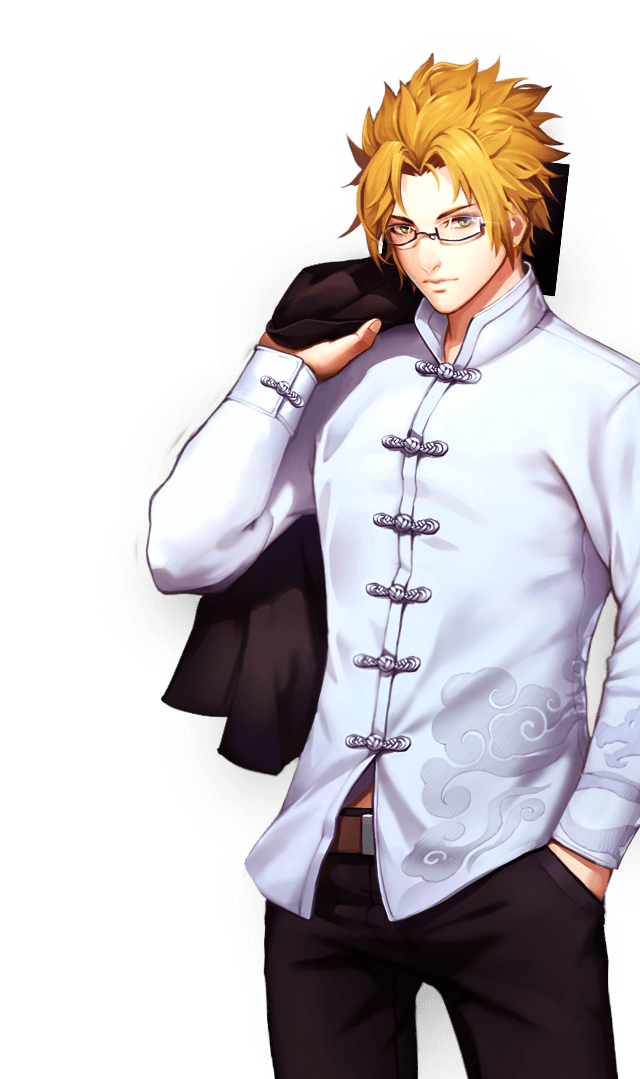
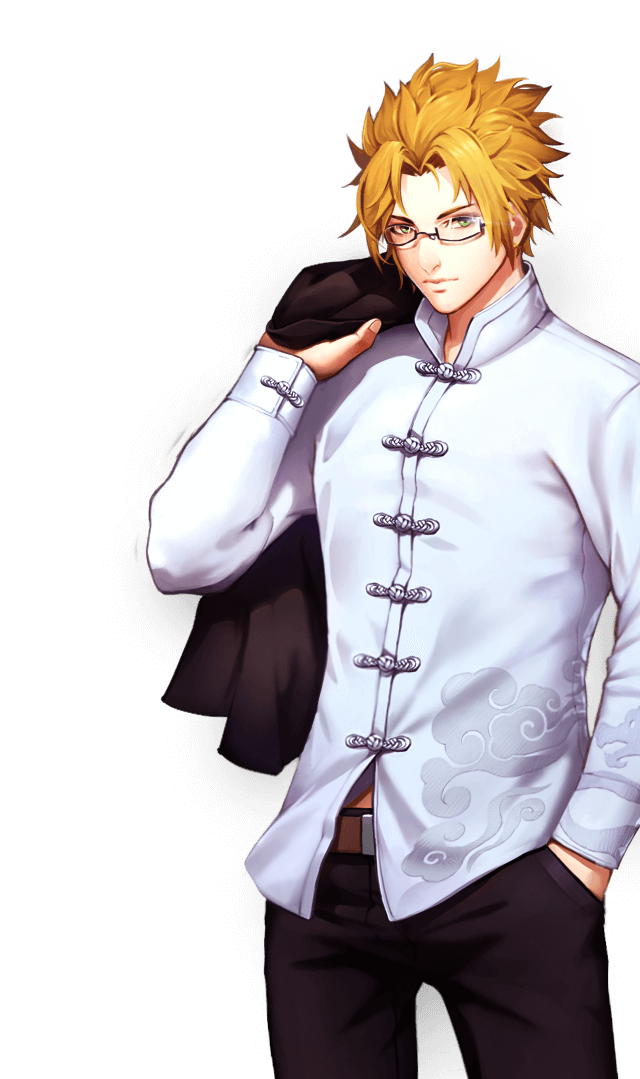
页面及图片调整

Changed region(s): [[0.8125, 0.1529, 0.9062, 0.2753], [0.5938, 0.2141, 0.625, 0.2447]]

diff --git a/sqmobile/css/mobile.css b/sqmobile/css/mobile.css
@@ -92,15 +92,16 @@ img {
   height: 5.234375rem;
   margin-left: 0.203125rem;
   margin-top: 0.625rem;
-  background: url('../img/page2-role-name.png') no-repeat;
-  -webkit-background-size: cover;
-  background-size: cover;
+  background: url(../img/page2-role-name.png) center no-repeat;
+  -webkit-background-size: contain;
+  background-size: contain;
 }
 .slide2 .page-role {
   position: absolute;
   width: 10.0rem;
   height: 16.015625rem;
   bottom: 0;
+  right: 0;
   background: url('../img/page2-role.png') no-repeat;
   -webkit-background-size: cover;
   background-size: cover;
@@ -157,6 +158,7 @@ img {
   width: 10.0rem;
   height: 16.875rem;
   bottom: 0;
+  right: 0;
   background: url('../img/page3-role.png') no-repeat;
   -webkit-background-size: cover;
   background-size: cover;
@@ -302,7 +304,7 @@ img {
   position: absolute;
   width: 9.796875rem;
   height: 3.890625rem;
-  margin-left: 0.203125rem;
+  right: 0;
   margin-top: 0.640625rem;
   background: url('../img/page6-role-name.png') no-repeat;
   -webkit-background-size: cover;
@@ -313,6 +315,7 @@ img {
   width: 10.0rem;
   height: 16.875rem;
   bottom: 0;
+  right: 0;
   background: url('../img/page6-role.png') no-repeat;
   -webkit-background-size: cover;
   background-size: cover;

diff --git a/sqmobile/css/mobile.less b/sqmobile/css/mobile.less
@@ -98,13 +98,17 @@ img{
     height: 5.234375rem;
     margin-left: 0.203125rem;
     margin-top:0.625rem;
-   .bg('../img/page2-role-name.png');
+   // .bg('../img/page2-role-name.png');
+   background: url(../img/page2-role-name.png) center no-repeat;
+   -webkit-background-size: contain;
+   background-size: contain;
   }
   .page-role{
     position: absolute;
     width: 10.0rem;
     height: 16.015625rem;
     bottom:0;
+    right:0;
     .bg('../img/page2-role.png');
   }
   .page-role-desc{
@@ -151,6 +155,7 @@ img{
     width: 10.0rem;
     height: 16.875rem;
     bottom: 0;
+    right: 0;
     .bg('../img/page3-role.png');
   }
   .page-role-desc {
@@ -272,7 +277,8 @@ img{
     position: absolute;
     width: 9.796875rem;
     height: 3.890625rem;
-    margin-left: 0.203125rem;
+    // margin-left: 0.203125rem;
+    right: 0;
     margin-top: 0.640625rem;
     .bg('../img/page6-role-name.png');
   }
@@ -281,6 +287,7 @@ img{
     width: 10.0rem;
     height: 16.875rem;
     bottom: 0;
+    right: 0;
     .bg('../img/page6-role.png');
   }
   .page-role-desc {

diff --git a/sqmobile/index.html b/sqmobile/index.html
@@ -2,7 +2,7 @@
 <html lang="zh_CN">
   <head>
     <meta charset="UTF-8">
-    <meta name="viewport"   content="width=device-width, initial-scale=1, maximum-scale=1, user-scalable=no">
+<!--     <meta name="viewport"   content="width=device-width, initial-scale=1, maximum-scale=1, user-scalable=no"> -->
     <title>神契App下载页</title>
     <script src="./js/pace.min.js"></script>
     <link rel="stylesheet" href="./css/pace-theme-center-circle.css">

diff --git a/sqmobile/js/flexible.js b/sqmobile/js/flexible.js
@@ -67,8 +67,8 @@
 
     function refreshRem(){
         var width = docEl.getBoundingClientRect().width;
-        if (width / dpr > 540) {
-            width = 540 * dpr;
+        if (width / dpr > 640) {
+            width = 640 * dpr;
         }
         var rem = width / 10;
         docEl.style.fontSize = rem + 'px';
